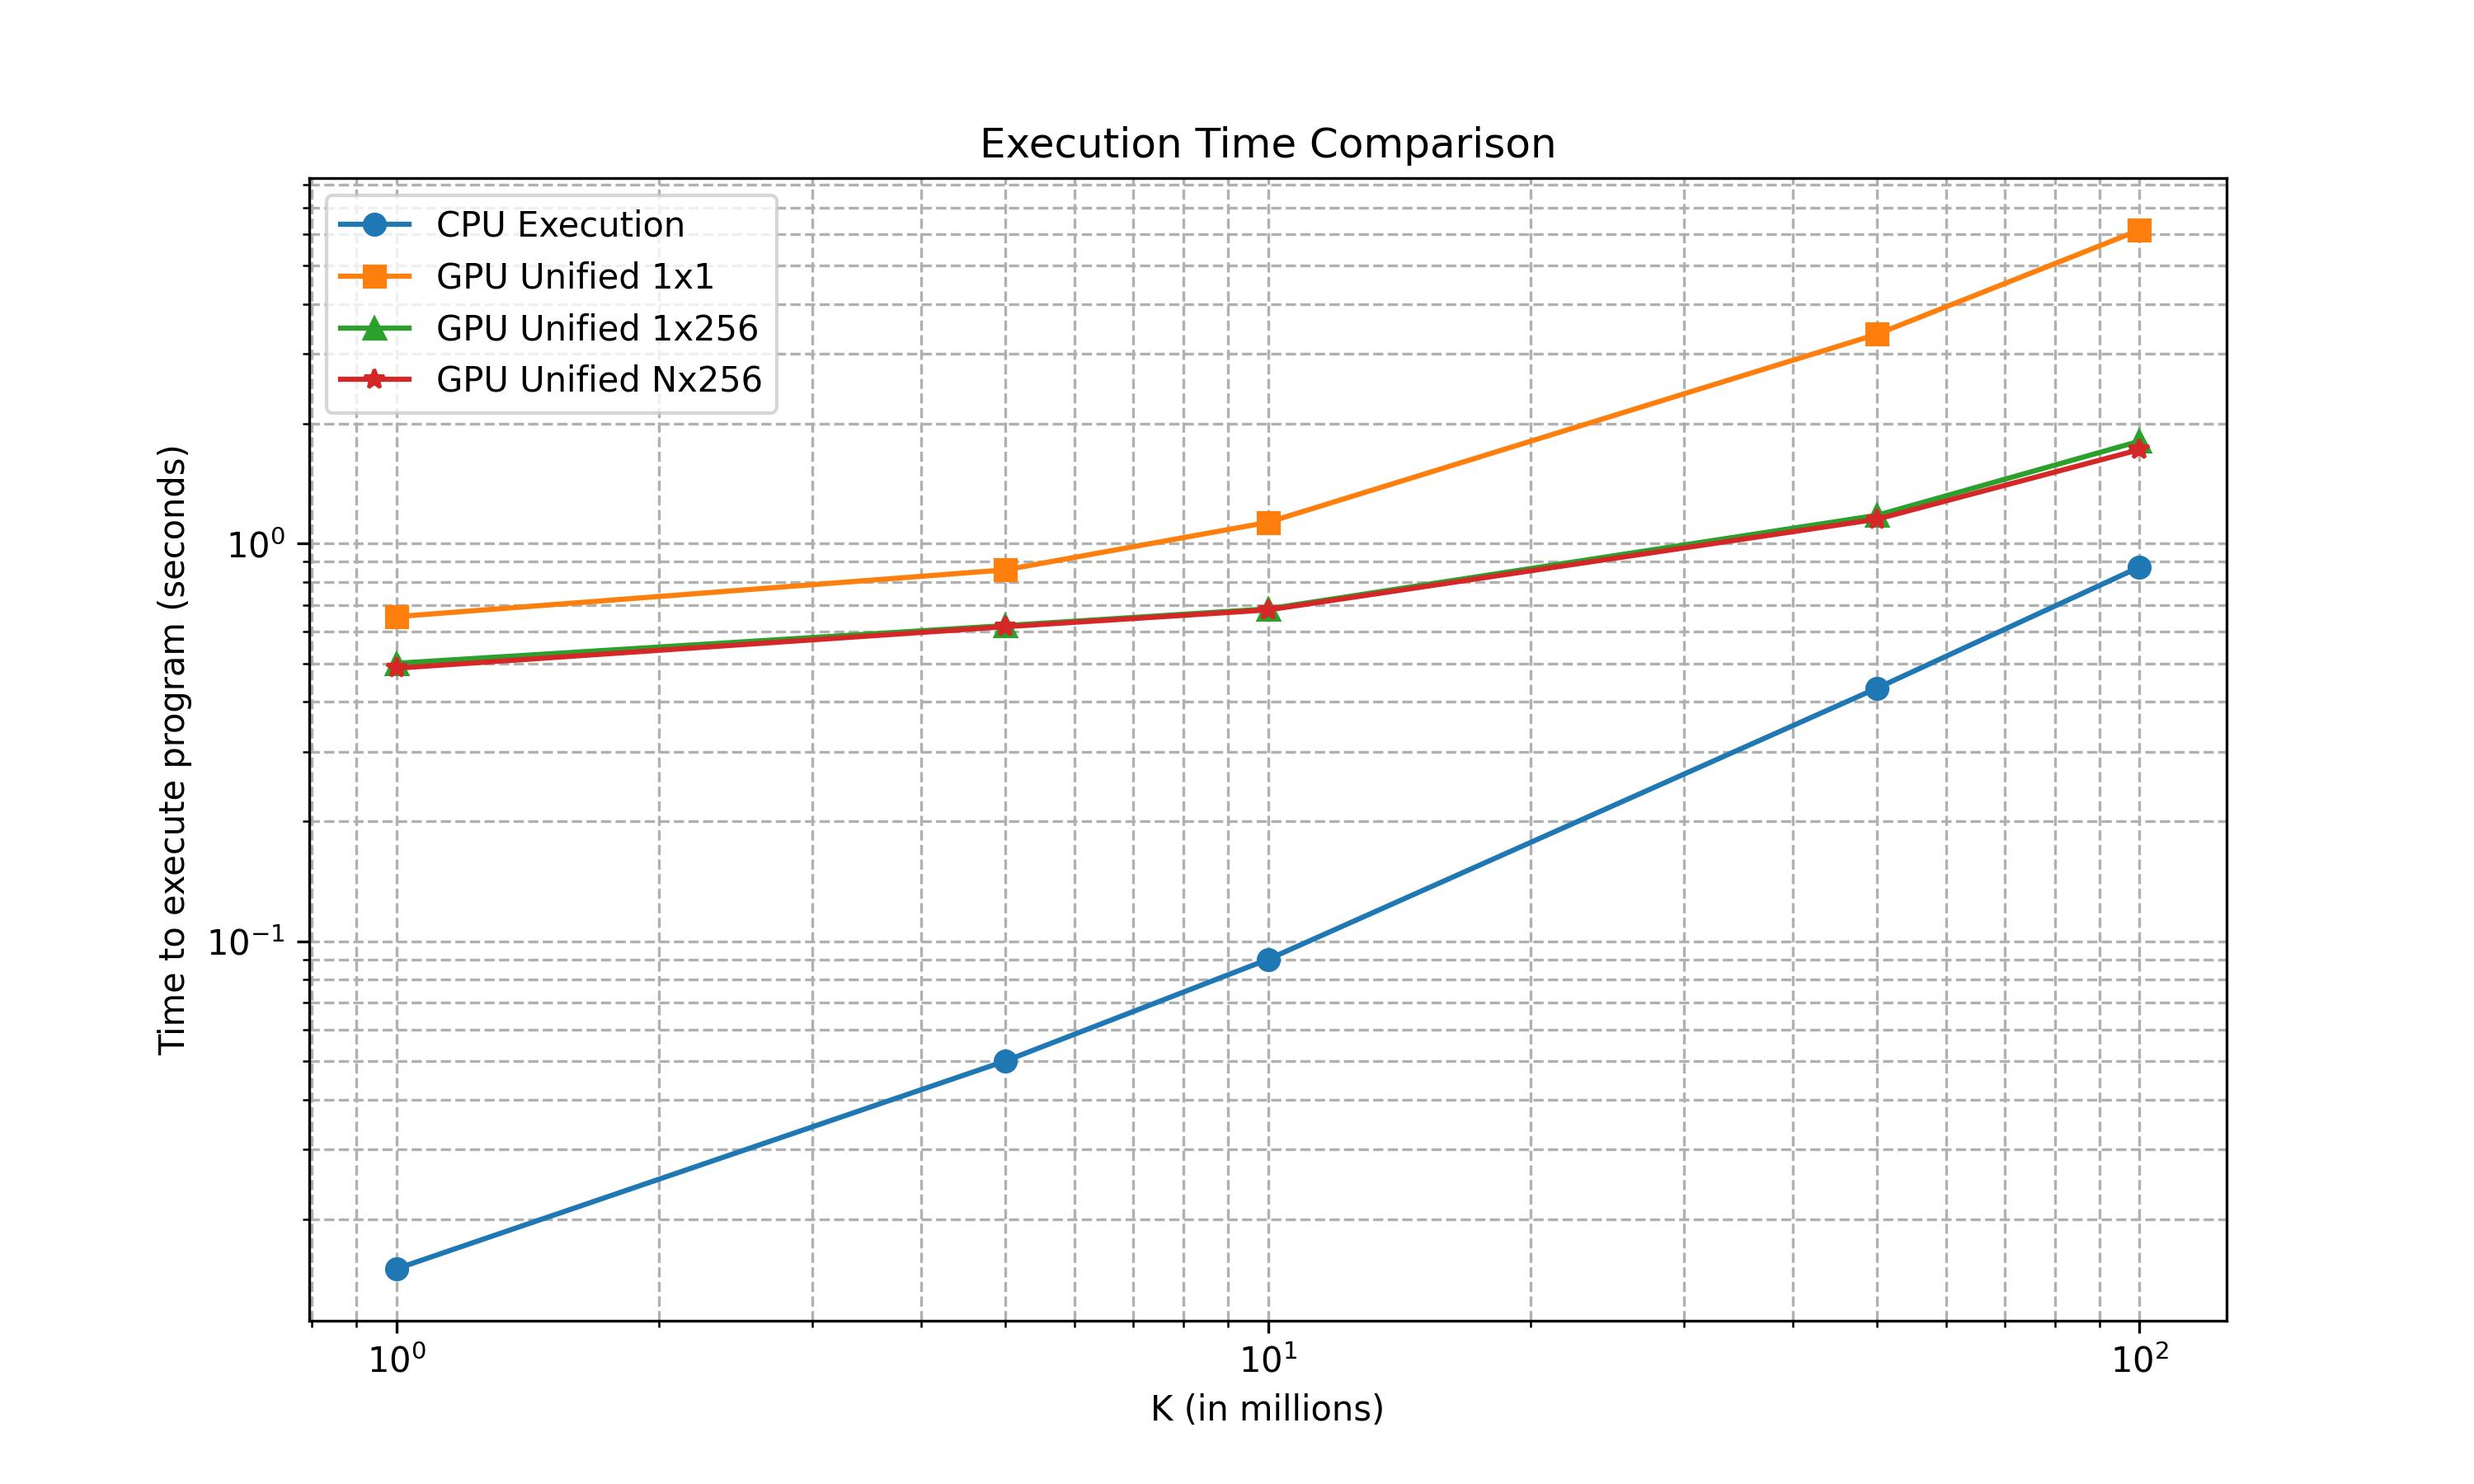
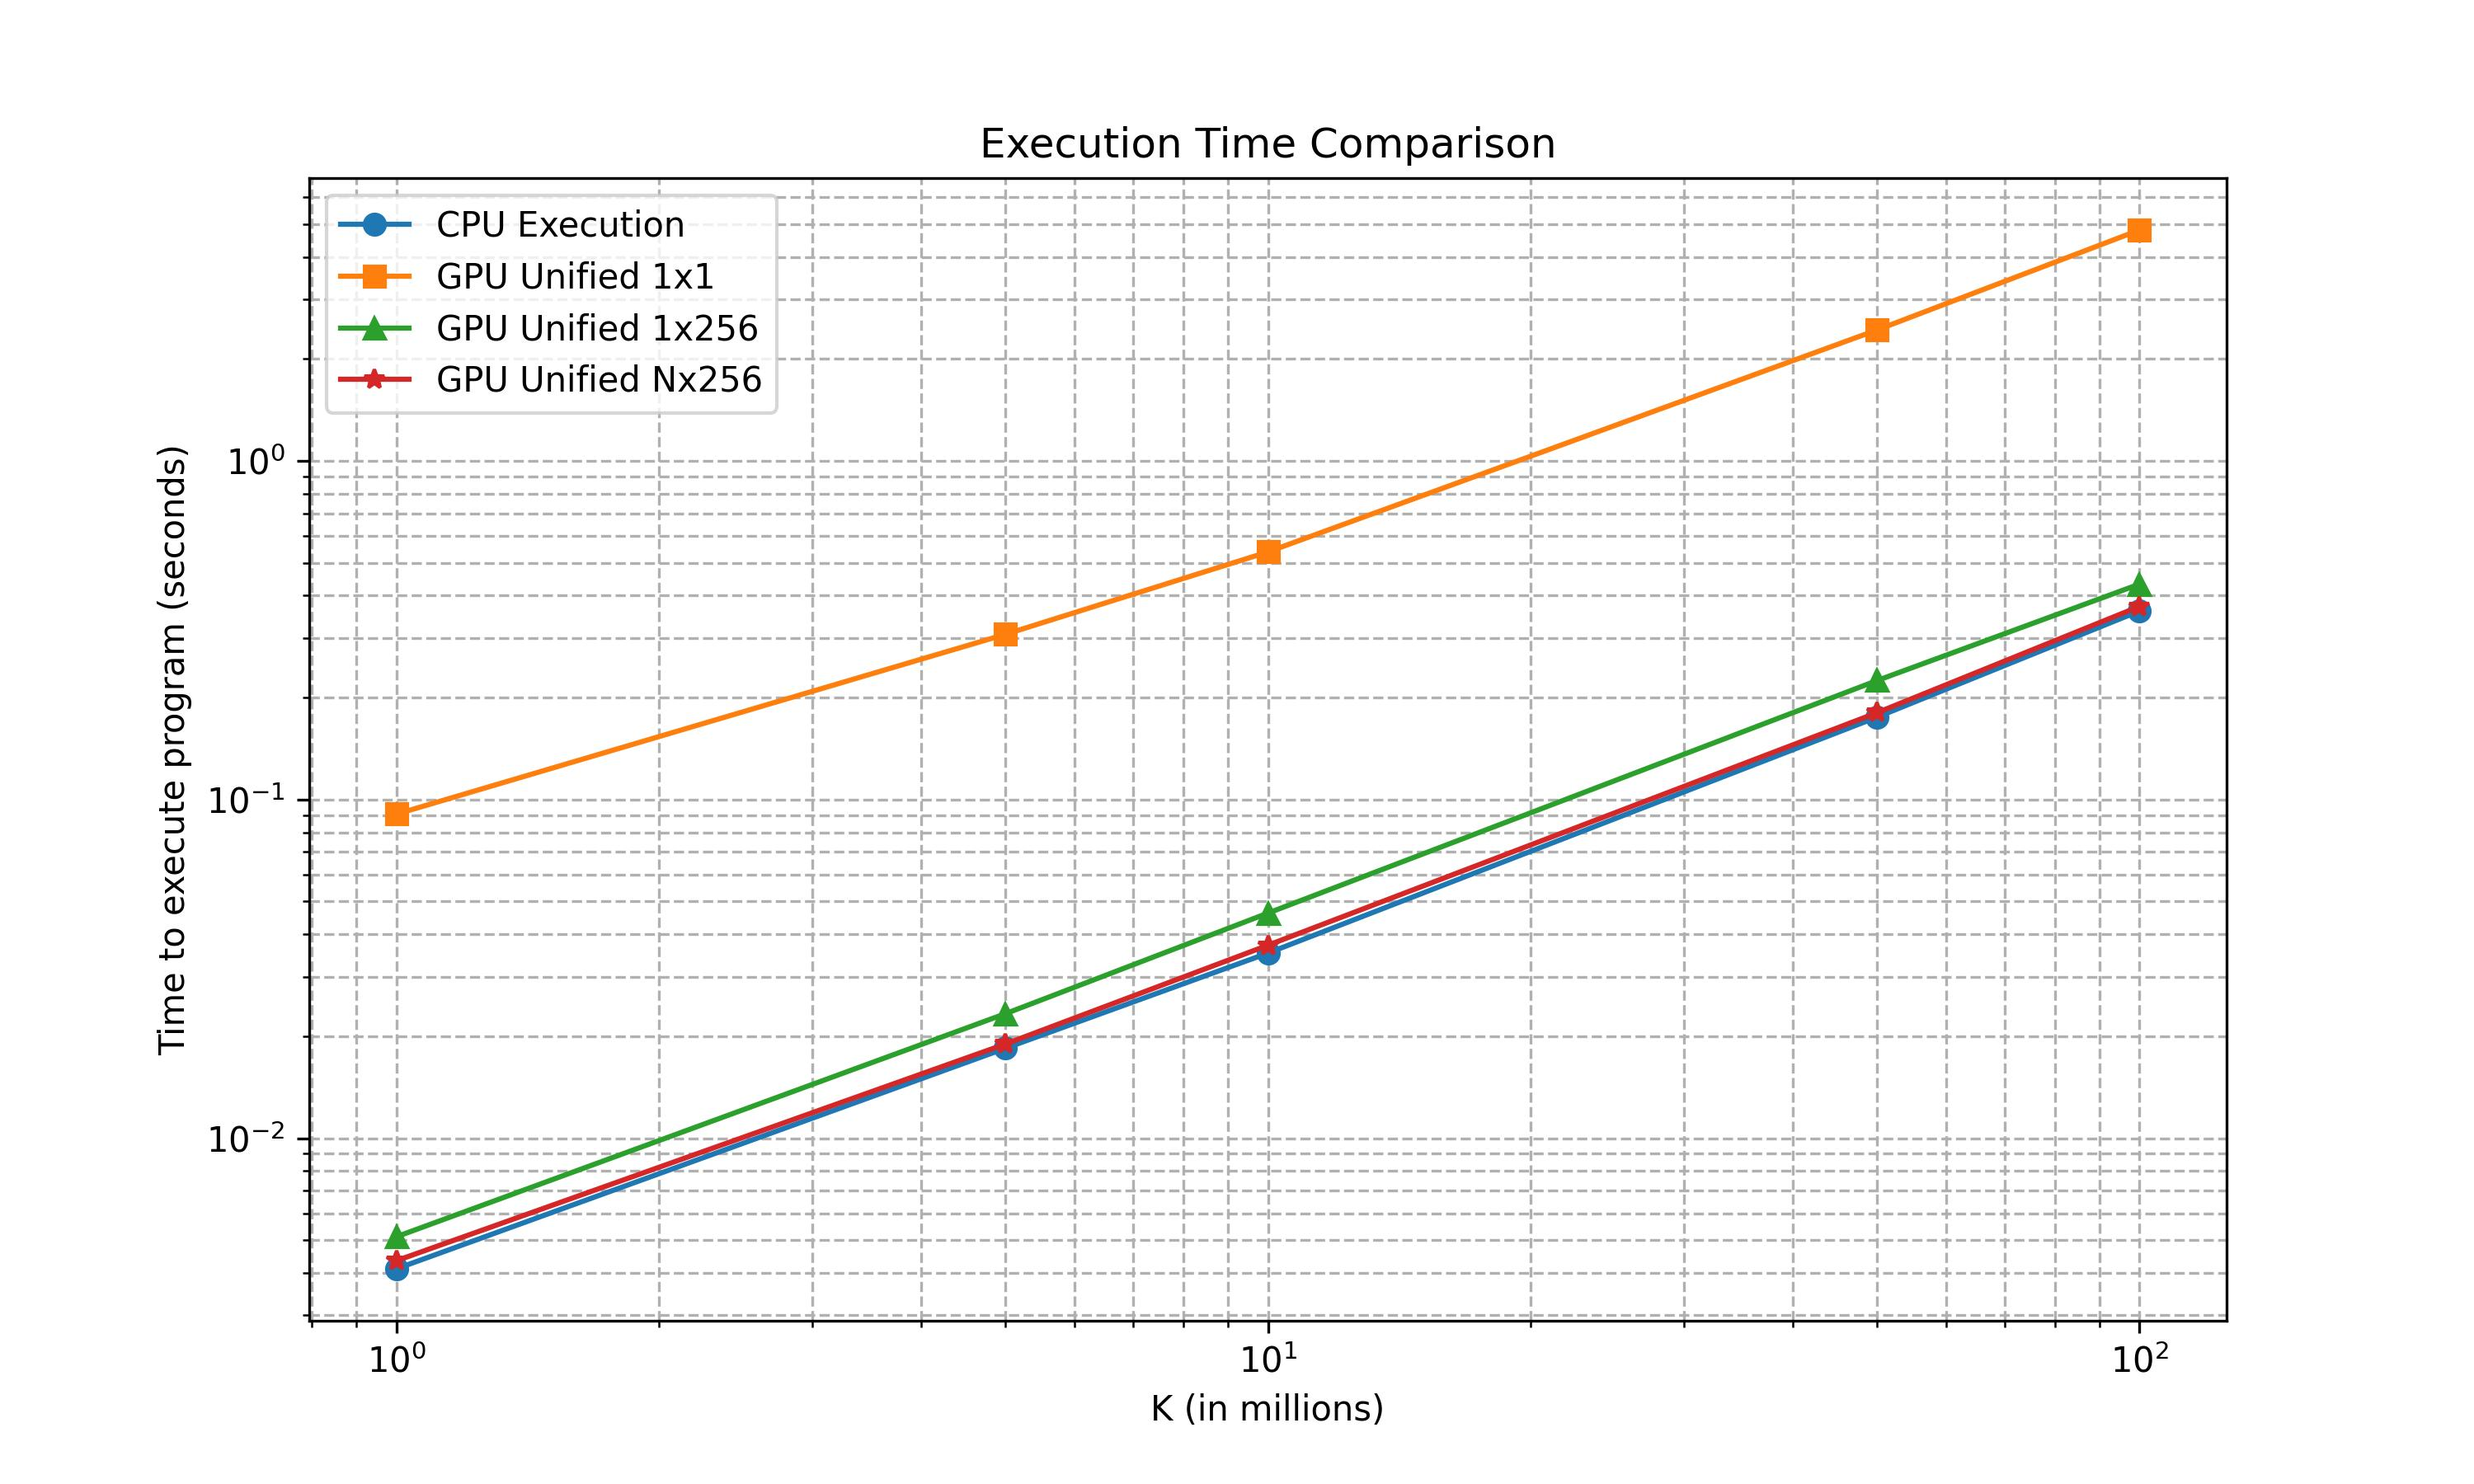
Done

diff --git a/Part-B/q4.py b/Part-B/q4.py
@@ -1,15 +1,15 @@
 from matplotlib import pyplot as plt
 import numpy as np
 
-cpu_exec = [0.015,0.05,0.09,0.433,0.873]
+cpu_exec = [0.00411296,0.01843,0.0351858,0.175048,0.360176]
 
-no_unify_data_1x1 = [0.657,0.951,1.271,3.657,6.814]
-no_unify_data_1x256 = [0.566,0.613,0.671,1.069,1.563]
-no_unify_data_nx256 = [0.549,0.603,0.652,0.999,1.448]
+no_unify_data_1x1 = [0.093455,0.397582,0.690609,2.802862,5.593631]
+no_unify_data_1x256 = [0.004812,0.020981,0.038902,0.186475,0.372736]
+no_unify_data_nx256 = [0.002864,0.009762,0.018726,0.089414,0.178199]
 
-unify_data_1x1 = [0.655,0.859,1.131,3.362,6.146]
-unify_data_1x256 = [0.5,0.622,0.685,1.178,1.809]
-unify_data_nx256 = [0.486,0.618,0.681,1.152,1.723]
+unify_data_1x1 = [0.090517,0.307462,0.538167,2.434372,4.802354]
+unify_data_1x256 = [0.005115,0.023312,0.046180,0.224471,0.432334]
+unify_data_nx256 = [0.004346,0.018968,0.037117,0.180375,0.371507]
 
 k_values =[1,5,10,50,100]
 
